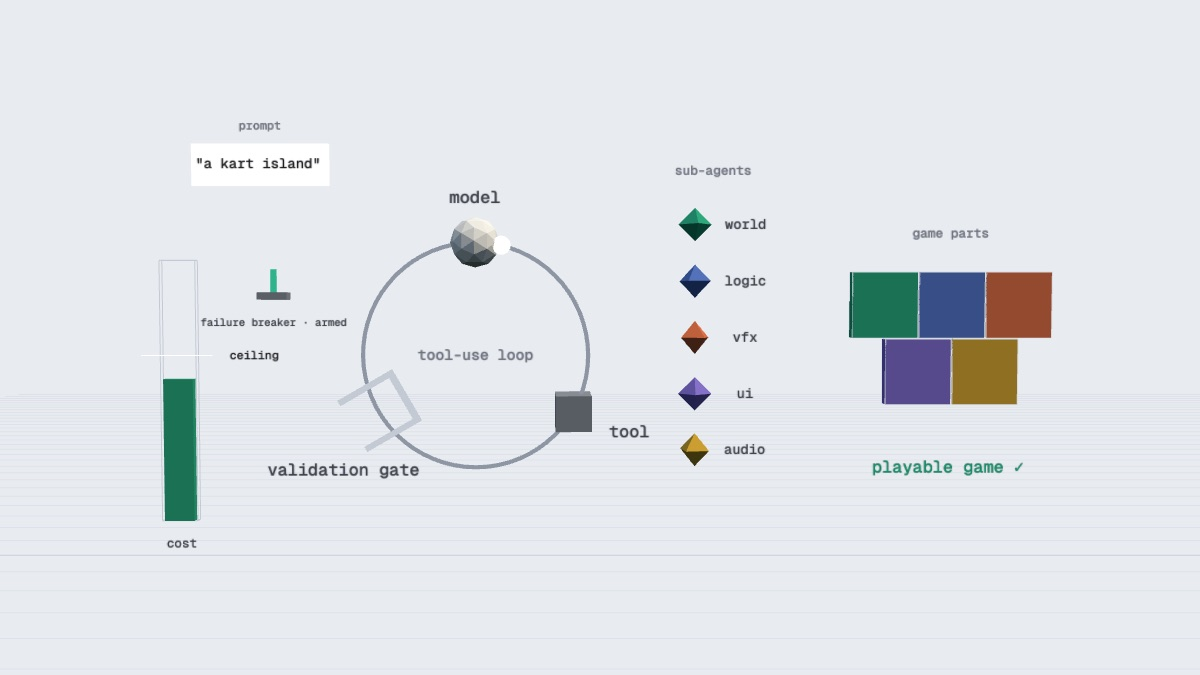
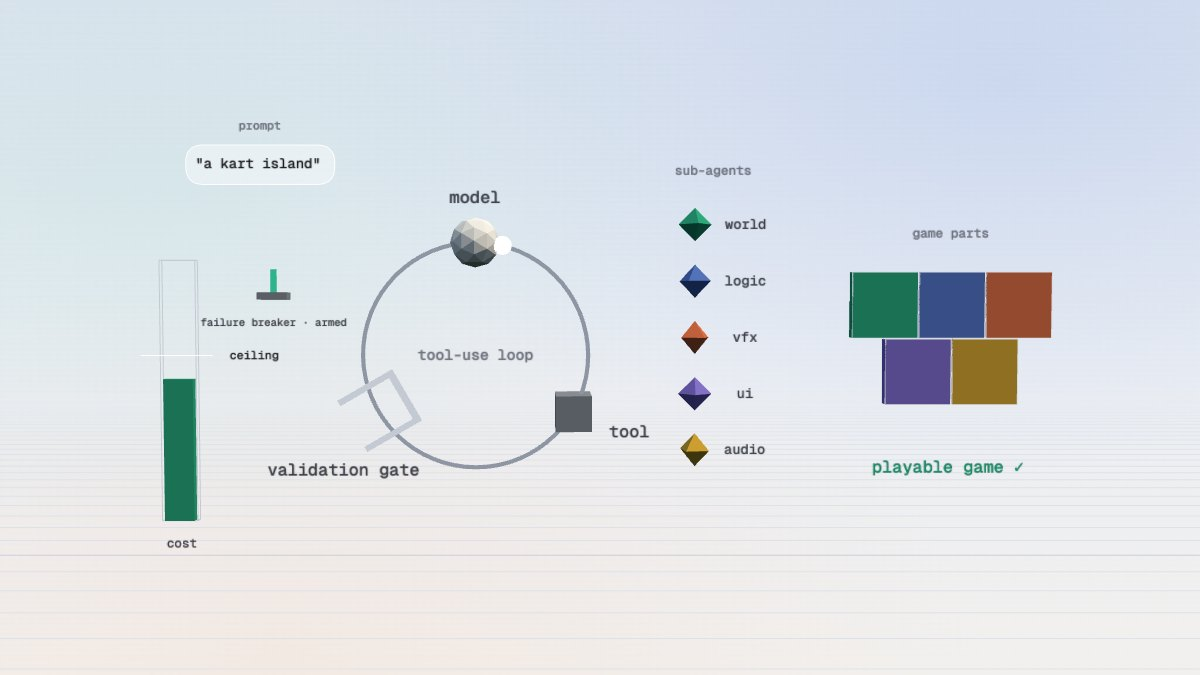
Soft glass chips behind scene text, gradient sky in the case demos
- Prompt and spec text sit on rounded see-through chips instead of white slabs
- Case scenes get a subtle vertical gradient sky with faint colour washes
- Studio scenes fade the floor grid into the horizon
- Card stills regenerated

Changed region(s): [[0.6783, 0.0, 0.9867, 0.2178], [0.1542, 0.2178, 0.2467, 0.28]]

diff --git a/src/stage/kit.ts b/src/stage/kit.ts
@@ -110,6 +110,54 @@ export function card(w: number, h: number, r = 0.18): THREE.Group {
   return g;
 }
 
+/** A soft glass chip behind scene text: rounded, see-through, with a thin outline. */
+export function chip(w: number, h: number, r = Math.min(0.3, h / 2)): THREE.Group {
+  const g = new THREE.Group();
+  const fill = new THREE.Mesh(roundedRect(w, h, r), new THREE.MeshBasicMaterial({ color: 0xffffff, transparent: true, opacity: 0.42, depthWrite: false }));
+  const pts = new THREE.Shape();
+  const x = -w / 2, y = -h / 2;
+  pts.moveTo(x + r, y);
+  pts.lineTo(x + w - r, y);
+  pts.quadraticCurveTo(x + w, y, x + w, y + r);
+  pts.lineTo(x + w, y + h - r);
+  pts.quadraticCurveTo(x + w, y + h, x + w - r, y + h);
+  pts.lineTo(x + r, y + h);
+  pts.quadraticCurveTo(x, y + h, x, y + h - r);
+  pts.lineTo(x, y + r);
+  pts.quadraticCurveTo(x, y, x + r, y);
+  const edge = new THREE.LineLoop(new THREE.BufferGeometry().setFromPoints(pts.getPoints(8)), new THREE.LineBasicMaterial({ color: 0xffffff, transparent: true, opacity: 0.9 }));
+  edge.position.z = 0.005;
+  g.add(fill, edge);
+  return g;
+}
+
+/** The case scenes' sky: a soft vertical gradient with faint colour washes, drawn once. */
+export function skyTexture(): THREE.CanvasTexture {
+  const cv = document.createElement('canvas');
+  cv.width = 256;
+  cv.height = 256;
+  const g = cv.getContext('2d')!;
+  const lin = g.createLinearGradient(0, 0, 0, 256);
+  lin.addColorStop(0, '#dde4ef');
+  lin.addColorStop(0.55, '#ebeef3');
+  lin.addColorStop(1, '#f2f0ee');
+  g.fillStyle = lin;
+  g.fillRect(0, 0, 256, 256);
+  const wash = (x: number, y: number, rad: number, rgb: string, a: number): void => {
+    const r = g.createRadialGradient(x, y, 0, x, y, rad);
+    r.addColorStop(0, `rgba(${rgb},${a})`);
+    r.addColorStop(1, `rgba(${rgb},0)`);
+    g.fillStyle = r;
+    g.fillRect(0, 0, 256, 256);
+  };
+  wash(215, 30, 150, '150,180,235', 0.28);
+  wash(30, 70, 130, '150,215,200', 0.18);
+  wash(60, 250, 150, '245,205,180', 0.2);
+  const tex = new THREE.CanvasTexture(cv);
+  tex.colorSpace = THREE.SRGBColorSpace;
+  return tex;
+}
+
 /** A small standing character, feet at the origin. A ghost is a see-through copy. */
 export function figure(color: number, ghost = false): THREE.Group {
   const g = new THREE.Group();

diff --git a/src/stage/lenses/vfx.ts b/src/stage/lenses/vfx.ts
@@ -1,5 +1,5 @@
 import * as THREE from 'three';
-import { C, box, front, labelAt, lit, portal, sceneRoot } from '../kit';
+import { C, chip, box, front, labelAt, lit, portal, sceneRoot } from '../kit';
 import { row, type CamPose, type Ctx, type Lens } from '../types';
 import { easeOut, rng } from '../world';
 
@@ -25,7 +25,7 @@ export function vfx(ctx: Ctx): Lens {
   const rand = rng(23);
 
   // --- the description -------------------------------------------------------------------
-  const card = box(3.1, 0.7, 0.06, lit(C.slab));
+  const card = chip(3.3, 0.66);
   card.position.set(-5.6, 6.9, 0);
   root.add(card);
   labelAt(root, '"a crackling blue portal"', -5.6, 6.9, 0.1, '#eef0f5', 0.24);
@@ -34,7 +34,7 @@ export function vfx(ctx: Ctx): Lens {
   // --- the phenomenon specification ---------------------------------------------------------
   const spec = new THREE.Group();
   spec.position.set(-5.6, 4.2, 0);
-  spec.add(box(3.1, 2.6, 0.06, lit(C.slab)));
+  spec.add(chip(3.3, 2.7, 0.3));
   labelAt(spec, 'phenomenon spec', 0, 1.65, 0, '#7a8296', 0.22);
   const specRows = ['simulates · electric vortex', 'bounds · radius, duration', 'palette · blue, white', 'revision · 1'];
   const specLabels = specRows.map((s, i) => labelAt(spec, s, 0, 0.85 - i * 0.55, 0.1, i === 3 ? '#5dcaa5' : '#a3a9b8', 0.2));

diff --git a/src/stage/index.ts b/src/stage/index.ts
@@ -1,5 +1,6 @@
 import * as THREE from 'three';
 import type { LensId } from '../content/types';
+import { skyTexture } from './kit';
 import { engine } from './lenses/engine';
 import { harness } from './lenses/harness';
 import { netcode } from './lenses/netcode';
@@ -47,10 +48,18 @@ export function createStage(opts: StageOptions): Stage {
   const fog = new THREE.Fog(PAPER, 75, 160);
   scene.background = sky;
   scene.fog = fog;
+  // Case scenes get a soft gradient sky; the hero keeps the flat tone of the page frame.
+  const caseSky = skyTexture();
   const setSky = (lens: LensId | 'intro'): void => {
     const c = lens === 'intro' ? PAPER : SCENE;
     sky.setHex(c);
     fog.color.setHex(c);
+    scene.background = lens === 'intro' ? sky : caseSky;
+    // Studio scenes (no island): the floor grid fades into the horizon instead of ending on a hard line.
+    const studio = lens !== 'intro' && lens !== 'engine' && lens !== 'vehicles';
+    fog.color.setHex(studio ? 0xe9edf2 : c);
+    fog.near = studio ? 22 : 75;
+    fog.far = studio ? 46 : 160;
   };
   scene.add(new THREE.HemisphereLight(0xcfe6ff, 0x2c3a2c, 1.25));
   const sun = new THREE.DirectionalLight(0xfff0d2, 2.4);

diff --git a/src/stage/lenses/harness.ts b/src/stage/lenses/harness.ts
@@ -1,5 +1,5 @@
 import * as THREE from 'three';
-import { C, basic, box, front, label, labelAt, line, lit, sceneRoot } from '../kit';
+import { C, chip, basic, box, front, label, labelAt, line, lit, sceneRoot } from '../kit';
 import { row, type CamPose, type Ctx, type Lens } from '../types';
 import { clamp01, easeOut } from '../world';
 
@@ -23,7 +23,7 @@ export function harness(ctx: Ctx): Lens {
   const root = sceneRoot();
 
   // --- prompt -------------------------------------------------------------------------
-  const prompt = box(2.3, 0.7, 0.06, lit(C.slab));
+  const prompt = chip(2.5, 0.66);
   prompt.position.set(-7.0, 6.6, 0);
   root.add(prompt);
   labelAt(root, '"a kart island"', -7.0, 6.6, 0.1, '#eef0f5', 0.26);

diff --git a/src/stage/lenses/shaders.ts b/src/stage/lenses/shaders.ts
@@ -1,5 +1,5 @@
 import * as THREE from 'three';
-import { C, box, front, labelAt, lit, sceneRoot } from '../kit';
+import { C, chip, front, labelAt, sceneRoot } from '../kit';
 import { row, slider, type CamPose, type Ctx, type Lens, type Slider } from '../types';
 import { easeOut } from '../world';
 
@@ -53,7 +53,7 @@ export function shaders(ctx: Ctx): Lens {
   const geo = new THREE.IcosahedronGeometry(1.7, 5);
 
   labelAt(root, 'prompt', -6.2, 7.55, 0, '#7a8296', 0.22);
-  const card = box(2.9, 0.7, 0.06, lit(C.slab));
+  const card = chip(3.1, 0.66);
   card.position.set(-6.2, 6.9, 0);
   root.add(card);
   labelAt(root, '"molten lava rock"', -6.2, 6.9, 0.1, '#eef0f5', 0.24);
